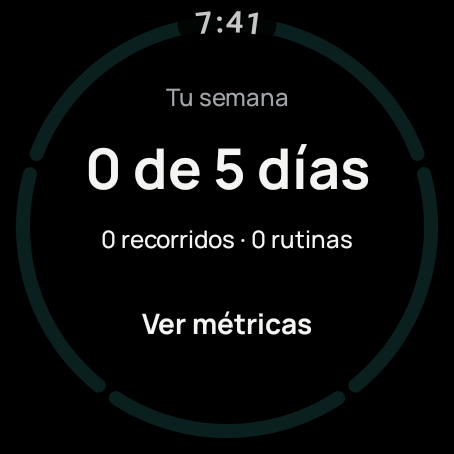
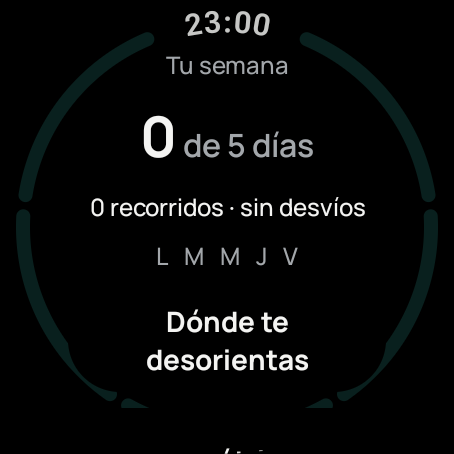
design(designsystem): dejar libre la hora en el anillo por segmentos y alargar los botones de texto
El anillo por segmentos (Tu semana, Aprendiendo tu rutina) repartía los 360° y la hora del
sistema tapaba parte del primer y del último segmento; ahora deja un hueco de 40° arriba
(StatusRing.CLOCK_GAP_DEGREES). Los botones de solo texto admiten 3 líneas antes de "…": en
en-XA "Dónde te desorientas" se cortaba. Hallazgos de una crítica de diseño independiente.

diff --git a/core/designsystem/src/main/java/com/lost/designsystem/components/organisms/SegmentedProgressRing.kt b/core/designsystem/src/main/java/com/lost/designsystem/components/organisms/SegmentedProgressRing.kt
@@ -31,13 +31,15 @@ fun SegmentedProgressRing(
     val painter = with(LocalDensity.current) {
         RingArcPainter(StatusRing.strokeWidth.toPx(), StatusRing.inset.toPx())
     }
-    val segmentSweep = StatusRing.FULL_SWEEP / segments.size.coerceAtLeast(1)
+    // Los segmentos se reparten en el arco visible: arriba queda la hora del sistema.
+    val segmentSweep = (StatusRing.FULL_SWEEP - StatusRing.CLOCK_GAP_DEGREES) / segments.size.coerceAtLeast(1)
+    val firstAngle = StatusRing.START_ANGLE + StatusRing.CLOCK_GAP_DEGREES / 2
     Box(modifier = modifier.fillMaxSize(), contentAlignment = Alignment.Center) {
         Canvas(modifier = Modifier.fillMaxSize()) {
             segments.forEachIndexed { index, state ->
                 val arc = RingArc(
                     color = colorFor(state),
-                    startAngle = StatusRing.START_ANGLE + index * segmentSweep + StatusRing.SEGMENT_GAP_DEGREES / 2,
+                    startAngle = firstAngle + index * segmentSweep + StatusRing.SEGMENT_GAP_DEGREES / 2,
                     sweepAngle = segmentSweep - StatusRing.SEGMENT_GAP_DEGREES
                 )
                 with(painter) { drawArc(arc) }

diff --git a/core/designsystem/src/main/java/com/lost/designsystem/components/atoms/LostSecondaryButton.kt b/core/designsystem/src/main/java/com/lost/designsystem/components/atoms/LostSecondaryButton.kt
@@ -33,9 +33,12 @@ fun LostSecondaryButton(
             containerColor = container,
             contentColor = ComponentTokens.SecondaryButton.content
         ),
-        label = { ButtonLabel(label) }
+        // Sin píldora el texto puede crecer: en otros idiomas pasa a una tercera línea en vez de cortarse.
+        label = { ButtonLabel(label, if (style == SecondaryButtonStyle.TEXT_ONLY) TEXT_ONLY_MAX_LINES else 2) }
     )
 }
+
+private const val TEXT_ONLY_MAX_LINES = 3
 
 @LostDevicePreviews
 @Composable

diff --git a/core/designsystem/src/main/java/com/lost/designsystem/components/atoms/LostPrimaryButton.kt b/core/designsystem/src/main/java/com/lost/designsystem/components/atoms/LostPrimaryButton.kt
@@ -42,13 +42,13 @@ fun LostPrimaryButton(label: String, onClick: () -> Unit, modifier: Modifier = M
 }
 
 @Composable
-internal fun ButtonLabel(label: String) {
+internal fun ButtonLabel(label: String, maxLines: Int = 2) {
     Text(
         text = label,
         modifier = Modifier.fillMaxWidth(),
         style = LostTypography.button,
         textAlign = TextAlign.Center,
-        maxLines = 2,
+        maxLines = maxLines,
         overflow = TextOverflow.Ellipsis
     )
 }

diff --git a/core/designsystem/src/main/java/com/lost/designsystem/tokens/ComponentTokens.kt b/core/designsystem/src/main/java/com/lost/designsystem/tokens/ComponentTokens.kt
@@ -17,6 +17,9 @@ object ComponentTokens {
         const val START_ANGLE: Float = -90f
         const val FULL_SWEEP: Float = 360f
         const val SEGMENT_GAP_DEGREES: Float = 6f
+
+        /** El anillo por segmentos deja libre arriba el arco de la hora del sistema, que lo taparía. */
+        const val CLOCK_GAP_DEGREES: Float = 40f
     }
 
     object RouteLine {
